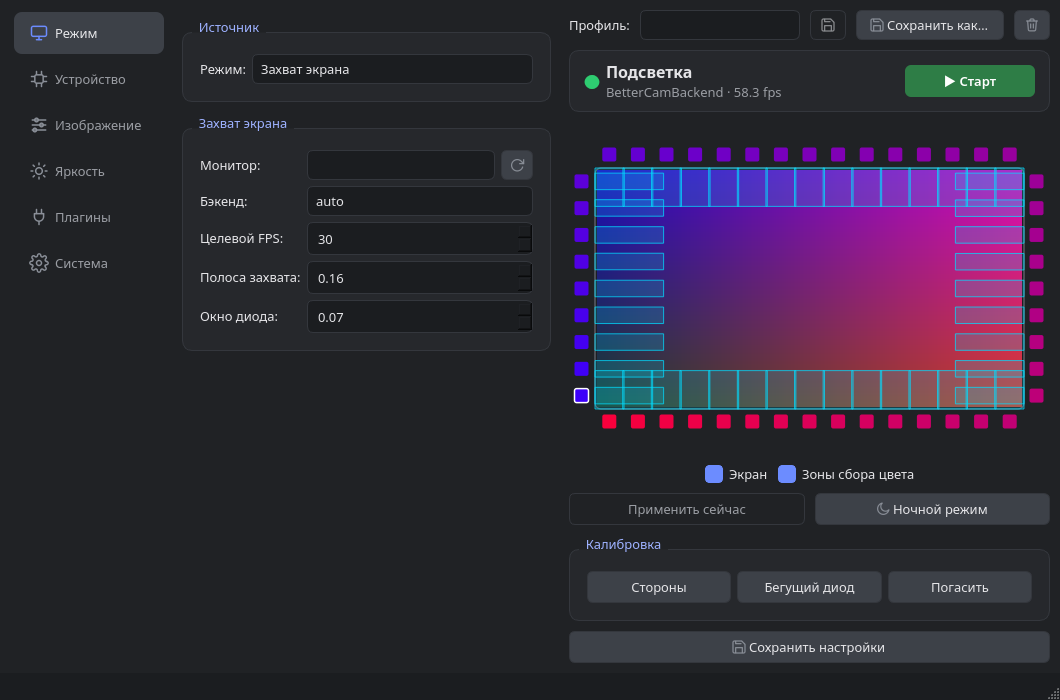
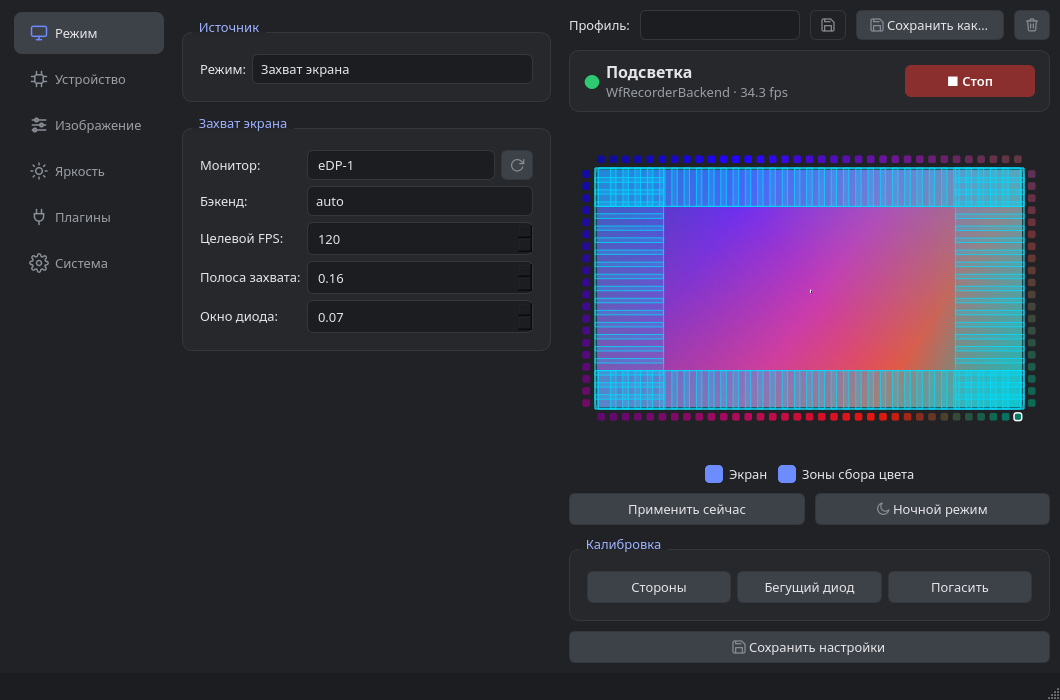
v0.24.1: фикс — в собранном бинарнике не работал захват на Wayland (PyInstaller подменял LD_LIBRARY_PATH, и hyprctl/grim/wf-recorder грузили чужой libstdc++); внешние программы запускаются через adalight.subproc с исходным окружением; вывод утилит попадает в текст ошибки; вёрстка — длинные пункты сп

diff --git a/adalight/capture/wayland.py b/adalight/capture/wayland.py
@@ -2,6 +2,7 @@
 
 from __future__ import annotations
 
+import collections
 import json
 import subprocess
 import threading
@@ -9,18 +10,25 @@ import time
 
 import numpy as np
 
+from .. import subproc
 from ..config import Config
 from .base import BaseBackend, CaptureError
 
 
 def hyprland_monitors() -> list[dict]:
     try:
-        out = subprocess.run(
-            ["hyprctl", "monitors", "-j"], capture_output=True, text=True, check=True
-        )
+        out = subproc.run(["hyprctl", "monitors", "-j"], capture_output=True, text=True)
+    except FileNotFoundError as e:
+        raise CaptureError("hyprctl не найден — сессия не Hyprland?") from e
+    if out.returncode != 0:
+        # причина всегда в stderr: без неё сообщение «код возврата 1» ничего
+        # не объясняет (так пряталась подмена libstdc++ из бандла PyInstaller)
+        detail = (out.stderr.strip() or out.stdout.strip() or "без вывода").splitlines()[0]
+        raise CaptureError(f"hyprctl monitors: код {out.returncode}, {detail}")
+    try:
         return json.loads(out.stdout)
-    except (FileNotFoundError, subprocess.CalledProcessError, json.JSONDecodeError) as e:
-        raise CaptureError(f"Не удалось получить список мониторов через hyprctl: {e}") from e
+    except json.JSONDecodeError as e:
+        raise CaptureError(f"hyprctl вернул не JSON: {e}") from e
 
 
 def resolve_output(cfg: Config) -> tuple[str, int, int]:
@@ -55,18 +63,36 @@ class WfRecorderBackend(BaseBackend):
             "-x", "bgr0", "-f", "pipe:1",
         ]
         try:
-            self._proc = subprocess.Popen(cmd, stdout=subprocess.PIPE, stderr=subprocess.DEVNULL)
+            self._proc = subproc.popen(cmd, stdout=subprocess.PIPE, stderr=subprocess.PIPE)
         except FileNotFoundError as e:
             raise CaptureError("wf-recorder не установлен") from e
 
+        # stderr держим в кольцевом буфере: выбросить его в DEVNULL значит
+        # потерять причину падения, а не читать из трубы — заклинить процесс
+        self._errlog: collections.deque[str] = collections.deque(maxlen=10)
+        self._errthread = threading.Thread(target=self._drain_stderr, daemon=True)
+        self._errthread.start()
         threading.Thread(target=self._reader, daemon=True).start()
         self._wait_for_first_frame()
+
+    def _drain_stderr(self) -> None:
+        try:
+            for line in self._proc.stderr:
+                text = line.decode(errors="replace").strip()
+                if text:
+                    self._errlog.append(text)
+        except Exception:  # noqa: BLE001 — труба закрыта вместе с процессом
+            pass
 
     def _wait_for_first_frame(self) -> None:
         t0 = time.time()
         while self._latest is None:
             if self._proc.poll() is not None:
-                raise CaptureError(f"wf-recorder упал при старте (код {self._proc.returncode})")
+                self._errthread.join(timeout=0.5)  # дать дочитать причину падения
+                detail = "; ".join(self._errlog) or "без вывода"
+                raise CaptureError(
+                    f"wf-recorder упал при старте (код {self._proc.returncode}): {detail}"
+                )
             if not self._alive:
                 raise CaptureError("Поток wf-recorder оборвался")
             if time.time() - t0 > self.FIRST_FRAME_TIMEOUT:
@@ -122,7 +148,7 @@ class GrimBackend(BaseBackend):
 
     def _grab(self) -> np.ndarray:
         try:
-            p = subprocess.run(
+            p = subproc.run(
                 ["grim", "-o", self.output, "-s", str(self.cfg.grim_scale), "-t", "ppm", "-"],
                 capture_output=True,
             )

diff --git a/adalight/subproc.py b/adalight/subproc.py
@@ -1,0 +1,53 @@
+"""Запуск сторонних программ из собранного бинарника.
+
+PyInstaller в режиме onefile подставляет в LD_LIBRARY_PATH свою временную папку
+(_MEIxxxx) с библиотеками, собранными на Ubuntu, и дочерние процессы наследуют
+её. Системная утилита (hyprctl, grim, wf-recorder, pkexec) грузит оттуда чужой
+libstdc++ и падает ещё до работы: «version GLIBCXX_3.4.35 not found» — на Arch
+и других дистрибутивах со свежим toolchain это ломало весь захват на Wayland.
+
+Поэтому внешние программы запускаем только через run()/popen() отсюда: они
+возвращают окружение к тому, каким оно было до старта бандла.
+"""
+
+from __future__ import annotations
+
+import os
+import subprocess
+import sys
+from collections.abc import Sequence
+from typing import Any
+
+# Пути к библиотекам, которые подменяет бутлоадер PyInstaller. Исходное значение
+# он кладёт в <VAR>_ORIG — и только если переменная вообще была задана, поэтому
+# отсутствие _ORIG в собранном приложении означает «до запуска её не было».
+_LIB_PATH_VARS = ("LD_LIBRARY_PATH", "DYLD_LIBRARY_PATH", "DYLD_FRAMEWORK_PATH", "LIBPATH")
+
+
+def system_env() -> dict[str, str]:
+    """Окружение без следов PyInstaller — для сторонних программ и перезапуска."""
+    env = {
+        k: v
+        for k, v in os.environ.items()
+        if not k.startswith("_PYI_") and k != "_MEIPASS2"
+    }
+    frozen = bool(getattr(sys, "frozen", False))
+    for var in _LIB_PATH_VARS:
+        original = env.pop(f"{var}_ORIG", None)
+        if original is not None:
+            env[var] = original
+        elif frozen:
+            env.pop(var, None)
+    return env
+
+
+def run(cmd: Sequence[str], **kwargs: Any) -> subprocess.CompletedProcess:
+    """subprocess.run с системным окружением."""
+    kwargs.setdefault("env", system_env())
+    return subprocess.run(cmd, **kwargs)  # noqa: S603 — команды фиксированные
+
+
+def popen(cmd: Sequence[str], **kwargs: Any) -> subprocess.Popen:
+    """subprocess.Popen с системным окружением."""
+    kwargs.setdefault("env", system_env())
+    return subprocess.Popen(cmd, **kwargs)  # noqa: S603 — команды фиксированные

diff --git a/tests/test_subproc.py b/tests/test_subproc.py
@@ -1,0 +1,61 @@
+import subprocess
+import sys
+
+import pytest
+
+from adalight import subproc
+
+
+@pytest.fixture
+def frozen(monkeypatch):
+    """Притвориться собранным бинарником PyInstaller."""
+    monkeypatch.setattr(sys, "frozen", True, raising=False)
+
+
+def test_system_env_drops_pyinstaller_vars(monkeypatch, frozen):
+    monkeypatch.setenv("_PYI_APPLICATION_HOME_DIR", "/tmp/_MEI42")
+    monkeypatch.setenv("_MEIPASS2", "/tmp/_MEI42")
+    monkeypatch.setenv("PATH", "/usr/bin")
+
+    env = subproc.system_env()
+
+    assert "_PYI_APPLICATION_HOME_DIR" not in env
+    assert "_MEIPASS2" not in env
+    assert env["PATH"] == "/usr/bin"
+
+
+def test_system_env_removes_bundle_library_path(monkeypatch, frozen):
+    # LD_LIBRARY_PATH_ORIG нет — значит переменной не было до запуска бандла,
+    # и путь к _MEI не должен утечь в hyprctl/grim (иначе чужой libstdc++)
+    monkeypatch.setenv("LD_LIBRARY_PATH", "/tmp/_MEI42")
+    monkeypatch.delenv("LD_LIBRARY_PATH_ORIG", raising=False)
+
+    assert "LD_LIBRARY_PATH" not in subproc.system_env()
+
+
+def test_system_env_restores_original_library_path(monkeypatch, frozen):
+    monkeypatch.setenv("LD_LIBRARY_PATH", "/tmp/_MEI42:/opt/mylibs")
+    monkeypatch.setenv("LD_LIBRARY_PATH_ORIG", "/opt/mylibs")
+
+    env = subproc.system_env()
+
+    assert env["LD_LIBRARY_PATH"] == "/opt/mylibs"
+    assert "LD_LIBRARY_PATH_ORIG" not in env
+
+
+def test_system_env_keeps_library_path_when_not_frozen(monkeypatch):
+    monkeypatch.delattr(sys, "frozen", raising=False)
+    monkeypatch.setenv("LD_LIBRARY_PATH", "/opt/mylibs")
+
+    assert subproc.system_env()["LD_LIBRARY_PATH"] == "/opt/mylibs"
+
+
+def test_run_and_popen_pass_clean_env(monkeypatch, frozen):
+    monkeypatch.setenv("LD_LIBRARY_PATH", "/tmp/_MEI42")
+    code = "import os; print(os.environ.get('LD_LIBRARY_PATH', '<нет>'))"
+
+    done = subproc.run([sys.executable, "-c", code], capture_output=True, text=True)
+    assert done.stdout.strip() == "<нет>"
+
+    proc = subproc.popen([sys.executable, "-c", code], stdout=subprocess.PIPE, text=True)
+    assert proc.communicate()[0].strip() == "<нет>"

diff --git a/adalight/gui/main_window.py b/adalight/gui/main_window.py
@@ -482,6 +482,14 @@ class MainWindow(QMainWindow):
         )
         self.pages.setMinimumWidth(340)
         self.pages.setMaximumWidth(430)
+        # длинные пункты («Спектр по периметру», путь к порту, имя монитора) не
+        # должны задавать ширину колонки: она ограничена, а горизонтальной
+        # прокрутки нет — форма уезжала правым краем под предпросмотр
+        for combo in self.pages.findChildren(QComboBox):
+            combo.setSizeAdjustPolicy(
+                QComboBox.SizeAdjustPolicy.AdjustToMinimumContentsLengthWithIcon
+            )
+            combo.setMinimumContentsLength(10)
         self.nav.currentRowChanged.connect(self._on_nav_changed)
         self.nav.setCurrentRow(0)
 
@@ -1231,8 +1239,10 @@ class MainWindow(QMainWindow):
         g = QGroupBox(tr("Расписание яркости"))
         lay = QVBoxLayout(g)
 
-        self.ch_schedule = QCheckBox(
-            tr("Включить (вне интервалов действует яркость «по умолчанию»)")
+        # пояснение — в подсказке: длинная надпись задавала ширину всей колонки
+        self.ch_schedule = QCheckBox(tr("Включить"))
+        self.ch_schedule.setToolTip(
+            tr("Вне интервалов действует яркость «по умолчанию»")
         )
         self.ch_schedule.toggled.connect(self._on_soft_changed)
         lay.addWidget(self.ch_schedule)

diff --git a/adalight/updates.py b/adalight/updates.py
@@ -10,6 +10,8 @@ import urllib.request
 from collections.abc import Callable
 from pathlib import Path
 
+from . import subproc
+
 RELEASES_API = "https://api.github.com/repos/xvin84/Adalight/releases/latest"
 ASSET_NAMES = {"win32": "Adalight.exe", "linux": "Adalight-linux-x86_64"}
 _HEADERS = {"Accept": "application/vnd.github+json", "User-Agent": "Adalight"}
@@ -68,17 +70,13 @@ def download(url: str, dest: Path, progress: Callable[[int, int], None] | None =
 
 
 def _clean_env() -> dict[str, str]:
-    """Окружение без служебных переменных PyInstaller.
+    """Окружение без служебных переменных PyInstaller (см. adalight.subproc).
 
     Их наследование заставляет новый exe искать временную папку старого
     процесса (уже удалённую) — классическая ошибка «Failed to load Python DLL
     ... Temp\\_MEI...\\python312.dll» после перезапуска.
     """
-    return {
-        k: v
-        for k, v in os.environ.items()
-        if not k.startswith("_PYI_") and k != "_MEIPASS2"
-    }
+    return subproc.system_env()
 
 
 def apply_and_restart(new_file: Path) -> None:

diff --git a/tests/test_capture.py b/tests/test_capture.py
@@ -71,3 +71,29 @@ def test_capture_mod_activate_deactivate():
 
     manager.apply({"capture": {"enabled": False}})  # выключаем
     assert not loaded.running and capture.capture_source("mss") is None
+
+
+def test_hyprland_monitors_reports_stderr(monkeypatch):
+    """Причина падения hyprctl должна попадать в текст ошибки, а не теряться."""
+    import subprocess
+
+    from adalight.capture import wayland
+
+    def fake_run(cmd, **kwargs):
+        stderr = "hyprctl: libstdc++.so.6: version `GLIBCXX_3.4.35' not found\n"
+        return subprocess.CompletedProcess(cmd, 1, stdout="", stderr=stderr)
+
+    monkeypatch.setattr(wayland.subproc, "run", fake_run)
+    with pytest.raises(CaptureError, match="GLIBCXX_3.4.35"):
+        wayland.hyprland_monitors()
+
+
+def test_hyprland_monitors_missing_binary(monkeypatch):
+    from adalight.capture import wayland
+
+    def fake_run(cmd, **kwargs):
+        raise FileNotFoundError(cmd[0])
+
+    monkeypatch.setattr(wayland.subproc, "run", fake_run)
+    with pytest.raises(CaptureError, match="hyprctl не найден"):
+        wayland.hyprland_monitors()

diff --git a/adalight/locales/en.py b/adalight/locales/en.py
@@ -60,7 +60,8 @@ TRANSLATIONS: dict[str, str] = {
     "Верх=красный, право=зелёный, низ=синий, лево=жёлтый": "Top=red, right=green, bottom=blue, left=yellow",
     "Верхний левый": "Top-left",
     "Верхний правый": "Top-right",
-    "Включить (вне интервалов действует яркость «по умолчанию»)": "Enable (outside the ranges the “default” brightness applies)",
+    "Включить": "Enable",
+    "Вне интервалов действует яркость «по умолчанию»": "Outside the ranges the “default” brightness applies",
     "Включён": "Enabled",
     "Внешний вид": "Appearance",
     "Волны от баса": "Bass waves",

diff --git a/adalight/plugins/builtin/notifications.py b/adalight/plugins/builtin/notifications.py
@@ -15,6 +15,8 @@ import threading
 
 import numpy as np
 
+from ... import subproc
+
 DEFAULT_SETTINGS = {
     "enabled": False,
     "x": 0.85,          # позиция вспышки на экране (0..1)
@@ -213,7 +215,7 @@ class NotificationsPlugin:
             "interface='org.freedesktop.Notifications',member='Notify'",
         ]
         try:
-            self._proc = subprocess.Popen(
+            self._proc = subproc.popen(
                 cmd, stdout=subprocess.PIPE, stderr=subprocess.DEVNULL, text=True
             )
         except FileNotFoundError as e:

diff --git a/adalight/gui/plugin_manager_window.py b/adalight/gui/plugin_manager_window.py
@@ -78,6 +78,9 @@ class PluginManagerWindow(QDialog):
         self.list = QListWidget()
         self.list.setObjectName("pluginList")
         self.list.setFixedWidth(230)
+        # длинное имя плагина обрезаем многоточием, а не полосой прокрутки
+        self.list.setHorizontalScrollBarPolicy(Qt.ScrollBarPolicy.ScrollBarAlwaysOff)
+        self.list.setTextElideMode(Qt.TextElideMode.ElideRight)
         self.list.currentRowChanged.connect(self._on_select)
         lay.addWidget(self.list)
 

diff --git a/adalight/udev.py b/adalight/udev.py
@@ -19,6 +19,8 @@ import sys
 import tempfile
 from pathlib import Path
 
+from . import subproc
+
 RULES_FILENAME = "99-adalight.rules"
 RULES_PATH = Path("/etc/udev/rules.d") / RULES_FILENAME
 
@@ -67,7 +69,7 @@ def install_rule(path: Path = RULES_PATH) -> tuple[bool, str]:
         with os.fdopen(fd, "w") as f:
             f.write(RULES_CONTENT)
         try:
-            proc = subprocess.run(
+            proc = subproc.run(
                 [
                     "pkexec", "sh", "-c",
                     'install -D -m 0644 "$1" "$2" '

diff --git a/adalight/__init__.py b/adalight/__init__.py
@@ -1,4 +1,4 @@
 """Adalight ambilight: захват экрана -> цвета краёв -> LED-лента по serial."""
 
-__version__ = "0.24.0"
+__version__ = "0.24.1"
 __stage__ = "beta"  # стадия релиза для заголовка окна и «О программе»

diff --git a/CHANGELOG.md b/CHANGELOG.md
@@ -4,6 +4,33 @@
 версии — [SemVer](https://semver.org/lang/ru/). Полные диффы — в
 [релизах GitHub](https://github.com/xvin84/Adalight/releases).
 
+## [0.24.1] — 2026-08-02
+
+Захват на Wayland не работал в собранном бинарнике: «Не удалось получить список
+мониторов через hyprctl … returned non-zero exit status 1». Из исходников всё
+запускалось, поэтому ошибку не было видно при разработке.
+
+- Причина: PyInstaller подставляет в `LD_LIBRARY_PATH` свою временную папку с
+  библиотеками сборочной машины (Ubuntu), и её наследуют дочерние процессы —
+  `hyprctl`, `grim`, `wf-recorder` грузили чужой `libstdc++` и падали ещё до
+  работы («version GLIBCXX_3.4.35 not found»). На дистрибутивах со свежим
+  toolchain (Arch и др.) захват не запускался вообще.
+- Сторонние программы теперь запускаются через `adalight.subproc` — с
+  окружением, каким оно было до старта бандла (`hyprctl`, `grim`, `wf-recorder`,
+  `pkexec` для udev-правила, `dbus-monitor` для вспышек уведомлений).
+- Ошибки стали объяснимыми: в сообщение попадает вывод самой утилиты — было
+  «returned non-zero exit status 1», стало «hyprctl monitors: код 1, hyprctl:
+  … version GLIBCXX_3.4.35 not found». То же для `wf-recorder`: его stderr
+  больше не уходит в никуда, а показывается в причине падения.
+- Вёрстка: длинные пункты списков («Спектр по периметру», путь к порту, имя
+  монитора) распирали колонку настроек шире её максимума, и правый край формы
+  уезжал под предпросмотр — на многомониторных системах кнопка обновления
+  списка мониторов становилась недоступной.
+- Пояснение к расписанию яркости переехало из подписи галочки в подсказку, имя
+  плагина в менеджере обрезается многоточием вместо полосы прокрутки.
+- Скриншоты в README обновлены: английские для `README.md`, русские для
+  `README.ru.md`.
+
 ## [0.24.0] — 2026-07-25
 
 Производительность вывода и работа с портом. Приложение отдавало на ленту
